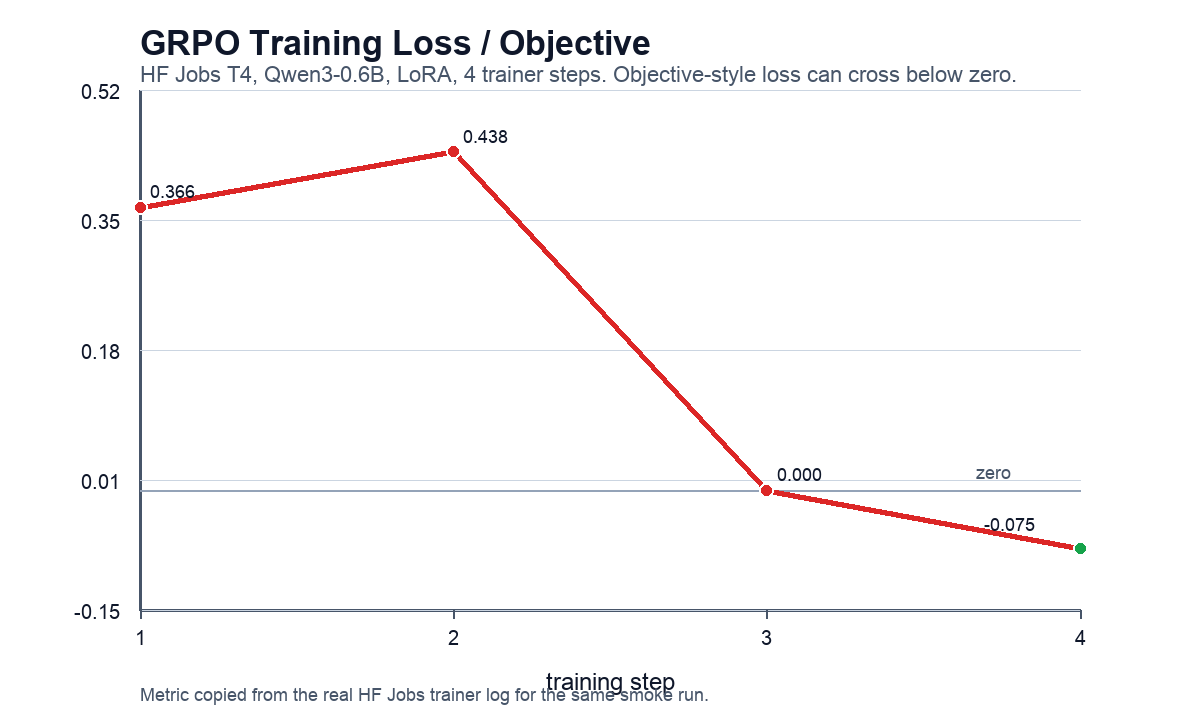
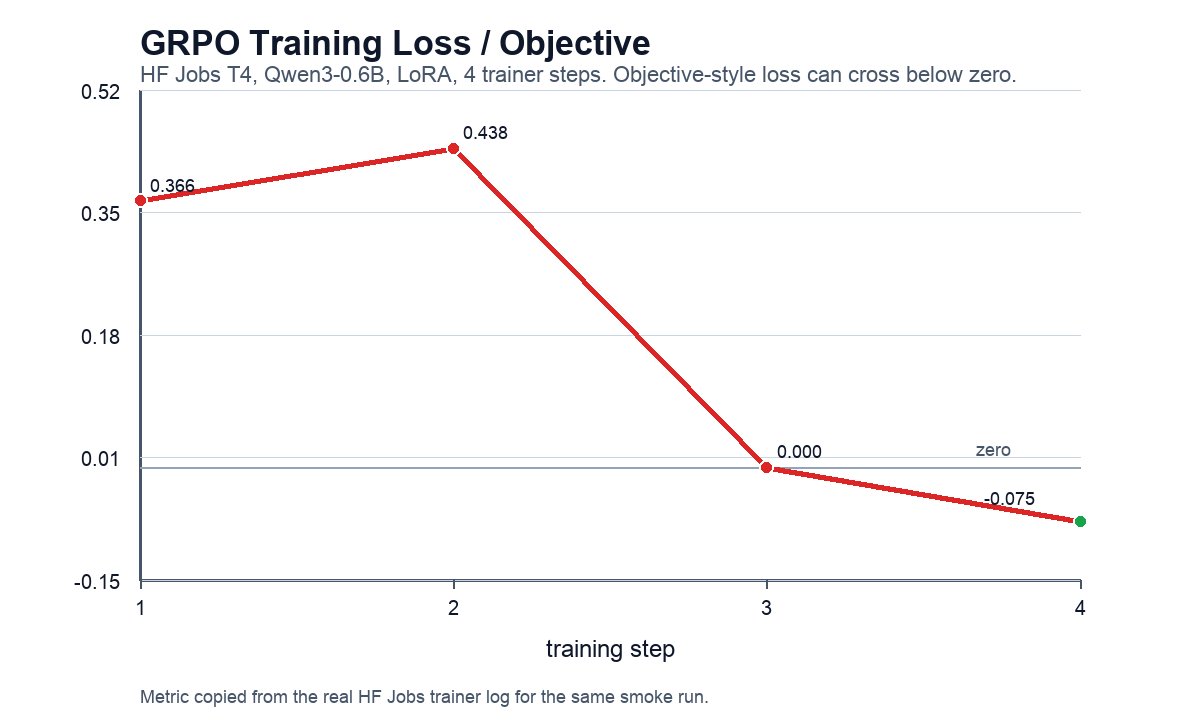
docs: polish README visual assets

diff --git a/training/generate_readme_assets.py b/training/generate_readme_assets.py
@@ -20,7 +20,7 @@ HEIGHT = 720
 PADDING_LEFT = 140
 PADDING_RIGHT = 120
 PADDING_TOP = 90
-PADDING_BOTTOM = 110
+PADDING_BOTTOM = 140
 BG = "white"
 TEXT = "#0f172a"
 AXIS = "#475569"
@@ -49,6 +49,7 @@ TITLE_FONT = load_font(34, bold=True)
 LABEL_FONT = load_font(24)
 TICK_FONT = load_font(20)
 BODY_FONT = load_font(22)
+COMPACT_BODY_FONT = load_font(20)
 SMALL_FONT = load_font(18)
 BIG_FONT = load_font(42, bold=True)
 MID_FONT = load_font(28, bold=True)
@@ -148,8 +149,8 @@ def generate_reward_curve() -> Path:
         label_x = x + 10 if idx < len(points) - 1 else x - 74
         draw.text((label_x, y - 26), value, font=SMALL_FONT, fill=TEXT)
 
-    draw_centered(draw, (x0, HEIGHT - 60, x1, HEIGHT - 20), "training step", LABEL_FONT)
-    draw.text((PADDING_LEFT, HEIGHT - 36), "Verified smoke run from the Colab T4 execution used in the on-site demo.", font=SMALL_FONT, fill=AXIS)
+    draw_centered(draw, (x0, HEIGHT - 90, x1, HEIGHT - 56), "training step", LABEL_FONT)
+    draw.text((PADDING_LEFT, HEIGHT - 34), "Verified smoke run from the Colab T4 execution used in the on-site demo.", font=SMALL_FONT, fill=AXIS)
 
     path = OUTPUT_DIR / "reward_curve.png"
     image.save(path)
@@ -205,8 +206,8 @@ def generate_loss_curve() -> Path:
             label_x, label_y = x - 96, y - 34
         draw.text((label_x, label_y), value, font=SMALL_FONT, fill=TEXT)
 
-    draw_centered(draw, (x0, HEIGHT - 60, x1, HEIGHT - 20), "training step", LABEL_FONT)
-    draw.text((PADDING_LEFT, HEIGHT - 36), "Metric copied from the real HF Jobs trainer log for the same smoke run.", font=SMALL_FONT, fill=AXIS)
+    draw_centered(draw, (x0, HEIGHT - 90, x1, HEIGHT - 56), "training step", LABEL_FONT)
+    draw.text((PADDING_LEFT, HEIGHT - 34), "Metric copied from the real HF Jobs trainer log for the same smoke run.", font=SMALL_FONT, fill=AXIS)
 
     path = OUTPUT_DIR / "loss_curve.png"
     image.save(path)
@@ -301,27 +302,30 @@ def generate_conflict_snapshot() -> Path:
         draw.text((x0 + 24, y0 + 24), title, font=MID_FONT, fill=accent)
         draw_wrapped(draw, (x0 + 24, y0 + 78), body, BODY_FONT, fill=TEXT, max_width=panel_w - 48)
 
-    lower_y = 462
-    draw.rounded_rectangle((64, lower_y, 556, 640), radius=18, fill="white", outline=RED, width=3)
+    lower_y = 456
+    lower_bottom = 652
+    draw.rounded_rectangle((64, lower_y, 556, lower_bottom), radius=18, fill="white", outline=RED, width=3)
     draw.text((92, lower_y + 26), "Failure Mode: Ignoring Risk", font=MID_FONT, fill=RED)
     draw_wrapped(
         draw,
         (92, lower_y + 78),
         "Baseline PM chases the buy signal, violates constraints, and loses reward to compliance and drawdown penalties.",
-        BODY_FONT,
+        COMPACT_BODY_FONT,
         fill=TEXT,
-        max_width=420,
+        max_width=430,
+        line_gap=6,
     )
 
-    draw.rounded_rectangle((644, lower_y, 1136, 640), radius=18, fill="white", outline=GREEN, width=3)
+    draw.rounded_rectangle((644, lower_y, 1136, lower_bottom), radius=18, fill="white", outline=GREEN, width=3)
     draw.text((672, lower_y + 26), "Target Behavior: Resolve Conflict", font=MID_FONT, fill=GREEN)
     draw_wrapped(
         draw,
         (672, lower_y + 78),
-        "The environment rewards balanced decisions: use Research, respect Risk, reduce concentration, and preserve return signal.",
-        BODY_FONT,
+        "The environment rewards balanced decisions: use Research, respect Risk, reduce concentration, preserve return signal.",
+        COMPACT_BODY_FONT,
         fill=TEXT,
-        max_width=420,
+        max_width=430,
+        line_gap=6,
     )
 
     draw.text(
